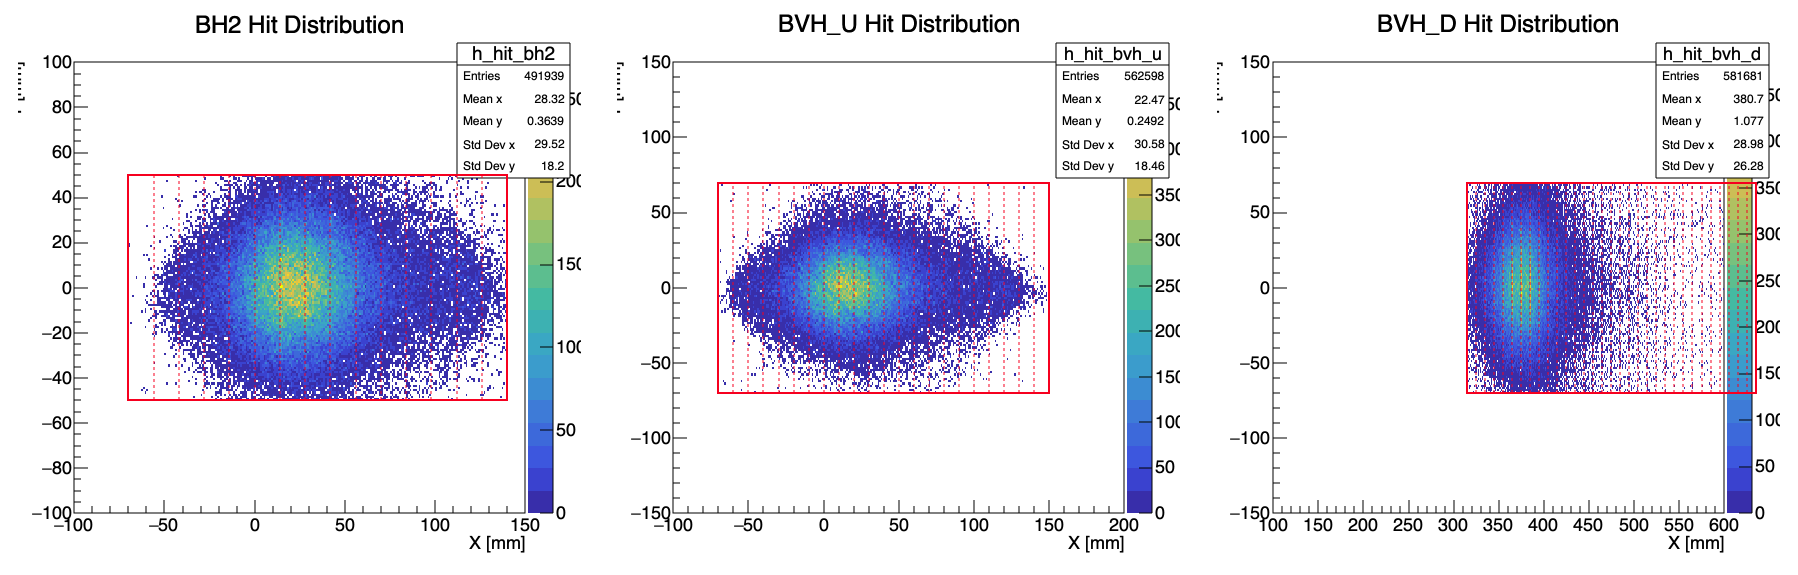
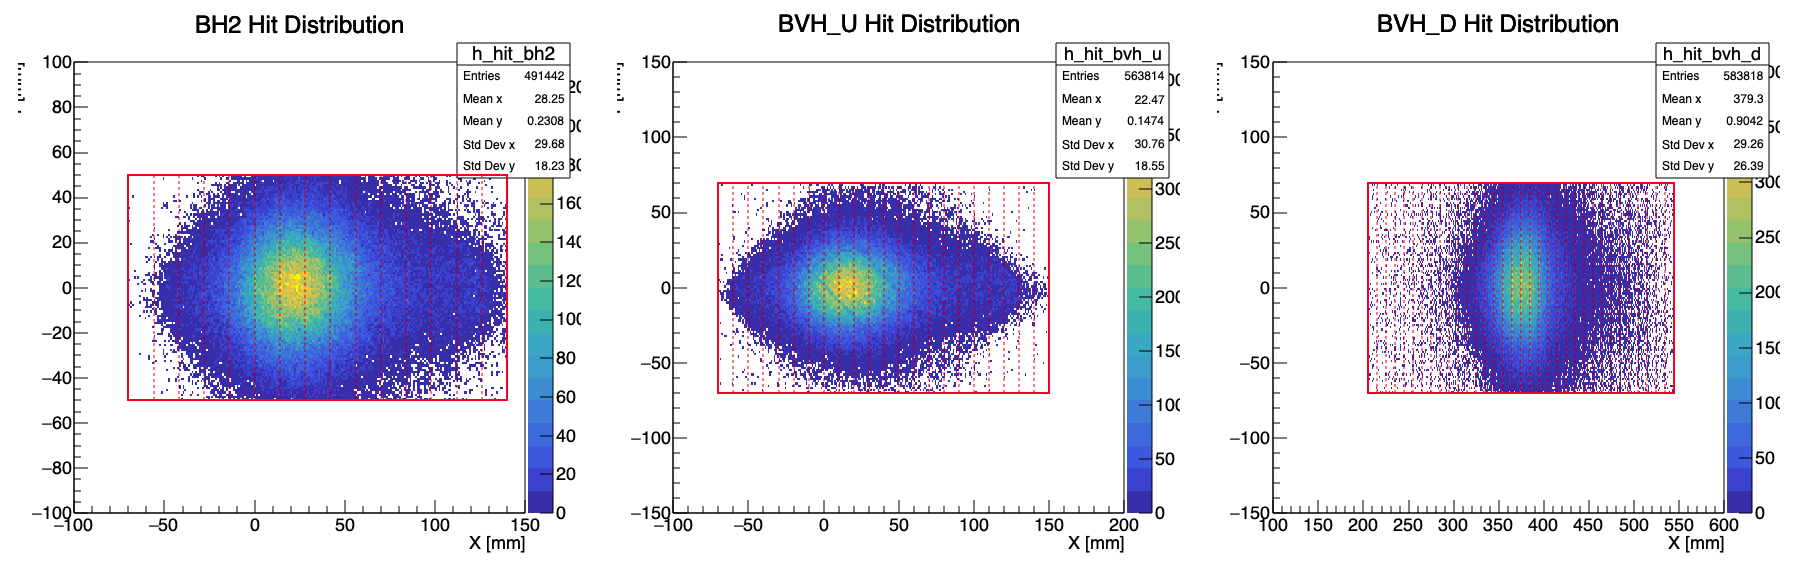
36,420

diff --git a/root/view_detectors_BVH.C b/root/view_detectors_BVH.C
@@ -29,7 +29,7 @@ void draw_bvh_u_overlay(double center_x) { // ★ n=22 로 수정
 }
 
 void draw_bvh_d_overlay(double center_x) { // ★ n=40 유지
-  const double seg_w = 10.0, seg_h = 140.0; const int n_segs = 32;
+  const double seg_w = 10.0, seg_h = 140.0; const int n_segs = 34;
   const double total_w = n_segs*seg_w, start_x = center_x - total_w/2.0;
   auto *outline = new TBox(start_x, -seg_h/2., start_x+total_w, seg_h/2.);
   outline->SetFillStyle(0); outline->SetLineColor(kRed); outline->SetLineWidth(2); outline->Draw("SAME");
@@ -44,7 +44,7 @@ void view_detectors_BVH() {
   gStyle->SetOptStat(1111);
   gStyle->SetPalette(kBird);
 
-  TFile *f = TFile::Open("E45_segment_32_475.root","READ");
+  TFile *f = TFile::Open("E45_segment_34_375.root","READ");
   if (!f || f->IsZombie()) { Error("view_detectors_BVH","cannot open file"); return; }
   auto *tree = (TTree*)f->Get("g4hyptpc");
   if (!tree) { Error("view_detectors_BVH","tree g4hyptpc not found"); return; }
@@ -82,6 +82,6 @@ void view_detectors_BVH() {
   c->Divide(3,1);
   c->cd(1); h_hit_bh2->Draw("COLZ");   draw_bh2_overlay(35.0);   // ★ BH2 중심 X = 35
   c->cd(2); h_hit_bvh_u->Draw("COLZ"); draw_bvh_u_overlay(40.0); // ★ BVH_U 중심 X = 40
-  c->cd(3); h_hit_bvh_d->Draw("COLZ"); draw_bvh_d_overlay(475.0);// ★ BVH_D 중심 X = 350
+  c->cd(3); h_hit_bvh_d->Draw("COLZ"); draw_bvh_d_overlay(375.0);// ★ BVH_D 중심 X = 350
   c->SaveAs("hits_with_overlays.png");
 }

diff --git a/root/BVH_3D.C b/root/BVH_3D.C
@@ -41,7 +41,7 @@
 // -------- Detector Segmentation --------
 static const int N_BH2  = 15; // 0..14
 static const int N_BVHU = 22; // 0..21
-static const int N_BVHD = 32; // 0..31
+static const int N_BVHD = 34; // 0..31
 
 // -------- Helper: unique segment indices passing e-dep cut --------
 static inline void get_unique_hits(const std::vector<TParticle>* v,
@@ -62,7 +62,7 @@ static inline void get_unique_hits(const std::vector<TParticle>* v,
 }
 
 // ================== Main Analysis Function ==================
-void BVH_3D(const char* fname = "E45_segment_32_475.root",
+void BVH_3D(const char* fname = "E45_segment_34_375.root",
             double ecutBH2MeV = 0.10,
             double ecutUMeV   = 0.04,
             double ecutDMeV   = 0.04,
@@ -286,6 +286,6 @@ gInterpreter->GenerateDictionary("vector<TParticle>", "TParticle.h;vector");
 // ================== Convenience wrapper ==================
 void run_analysis() {
   int event_threshold = 1; // (1) change here to highlight bins >=300 counts
-  BVH_3D("E45_segment_32_475.root", 0.10, 0.04, 0.04, event_threshold);
+  BVH_3D("E45_segment_34_375.root", 0.10, 0.04, 0.04, event_threshold);
   std::cout << "[Config] Red boxes mark bins with counts >= " << event_threshold << "." << std::endl;
 }
